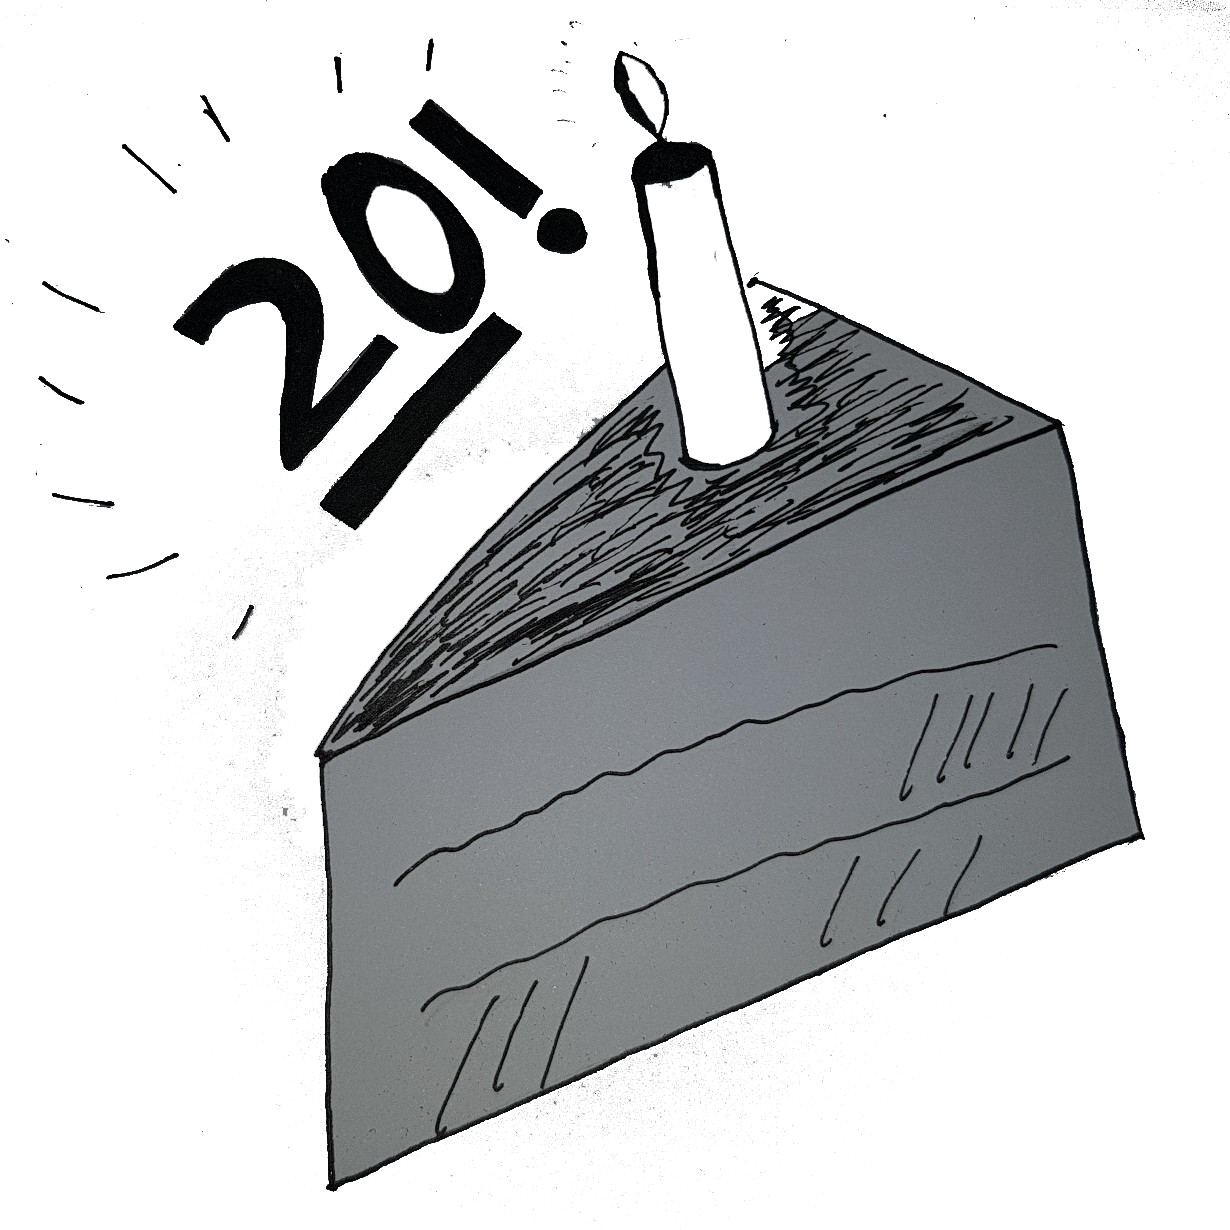
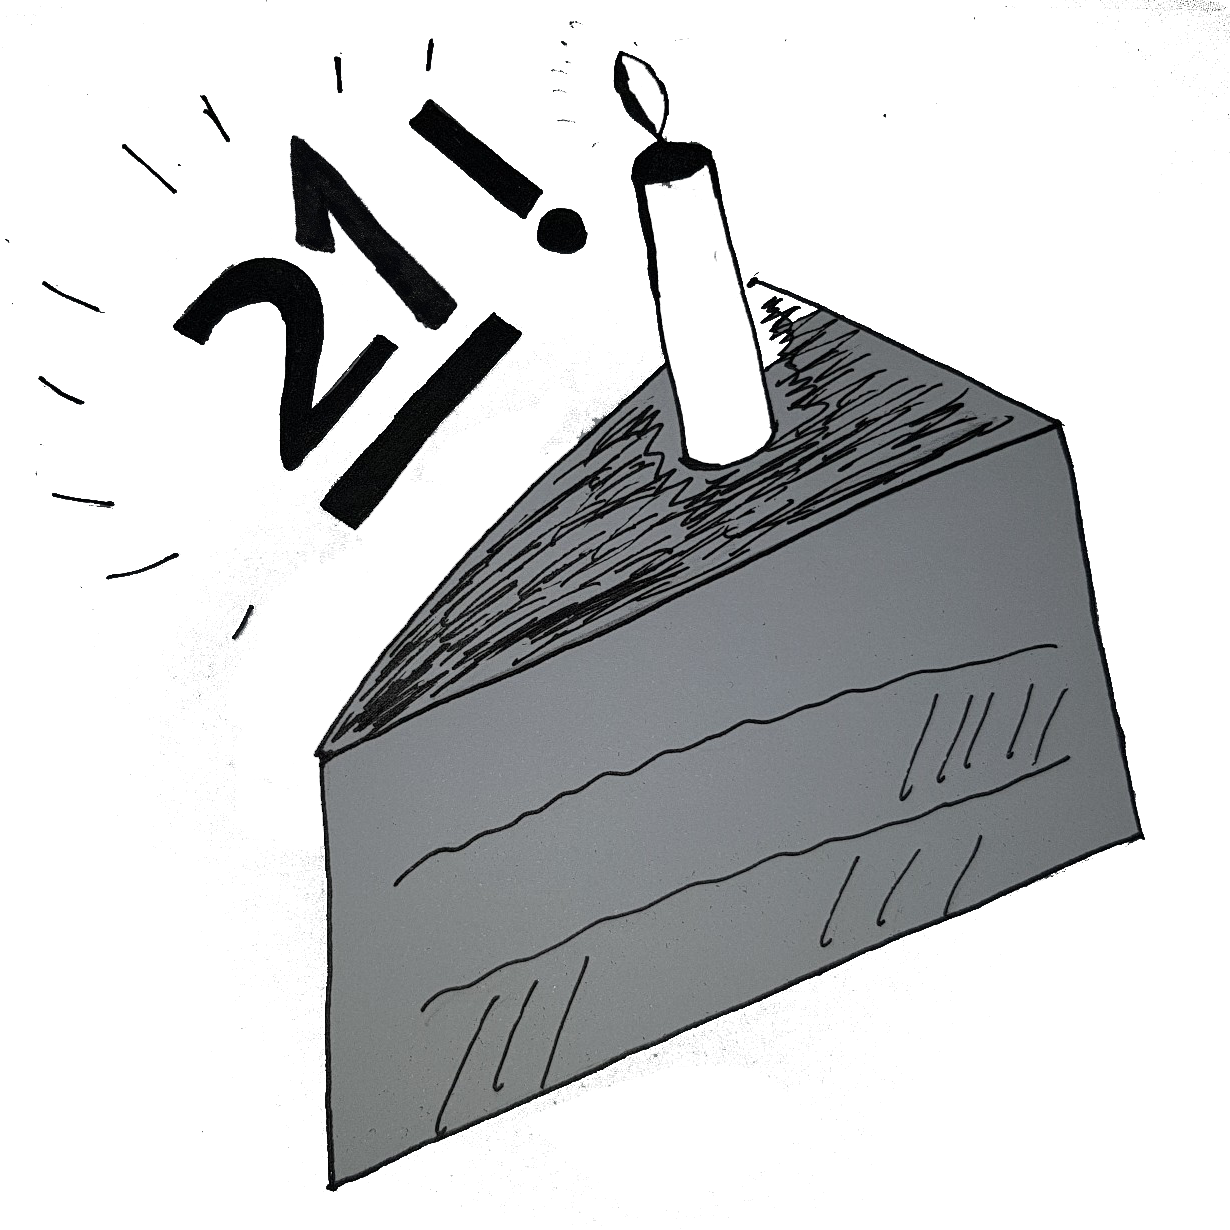
To the fixing of more things

Changed region(s): [[0.2163, 0.0927, 0.4016, 0.278], [0.2163, 0.6488, 0.2472, 0.6797]]

diff --git a/exclusives/birthday/Anais/index.html b/exclusives/birthday/Anais/index.html
@@ -10,7 +10,7 @@
 
 <body>
     <h1 class="title">HAPPY BIRTHDAY YOU!</h1>
-    <p class="text">can't believe you're finally 20 years old! </p>
+    <p class="text">can't believe you're finally 21 years old! </p>
     <img src="images/CAKE.png" class="Cake">
        <img src="images/ANAIS.png" class="Cake2">
 </body>
